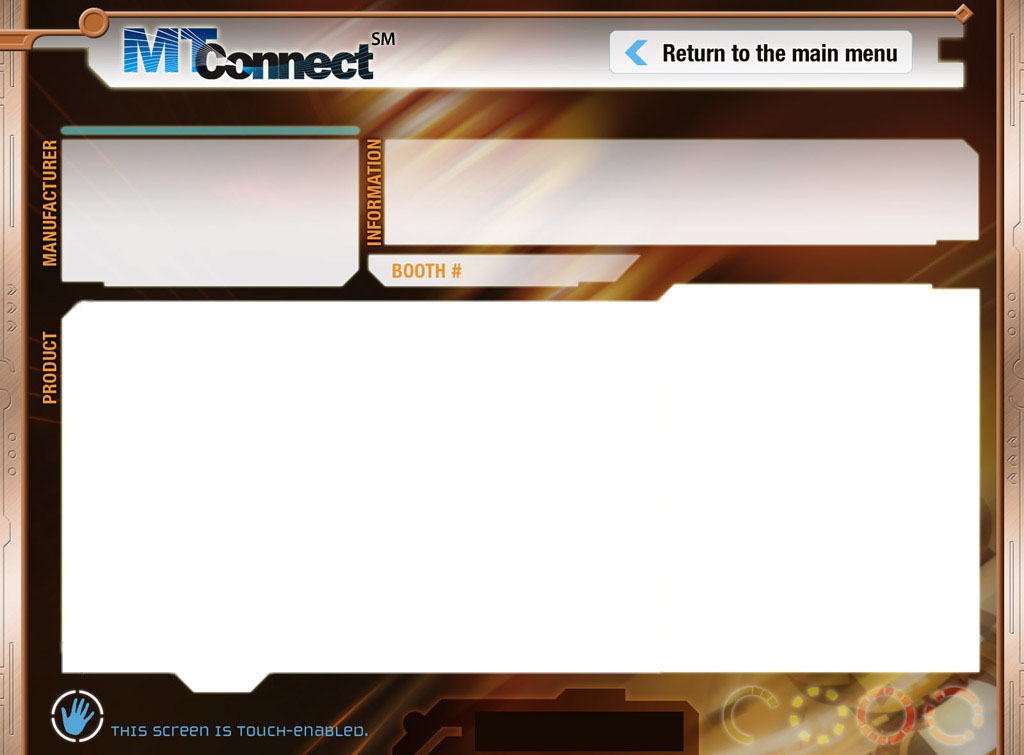
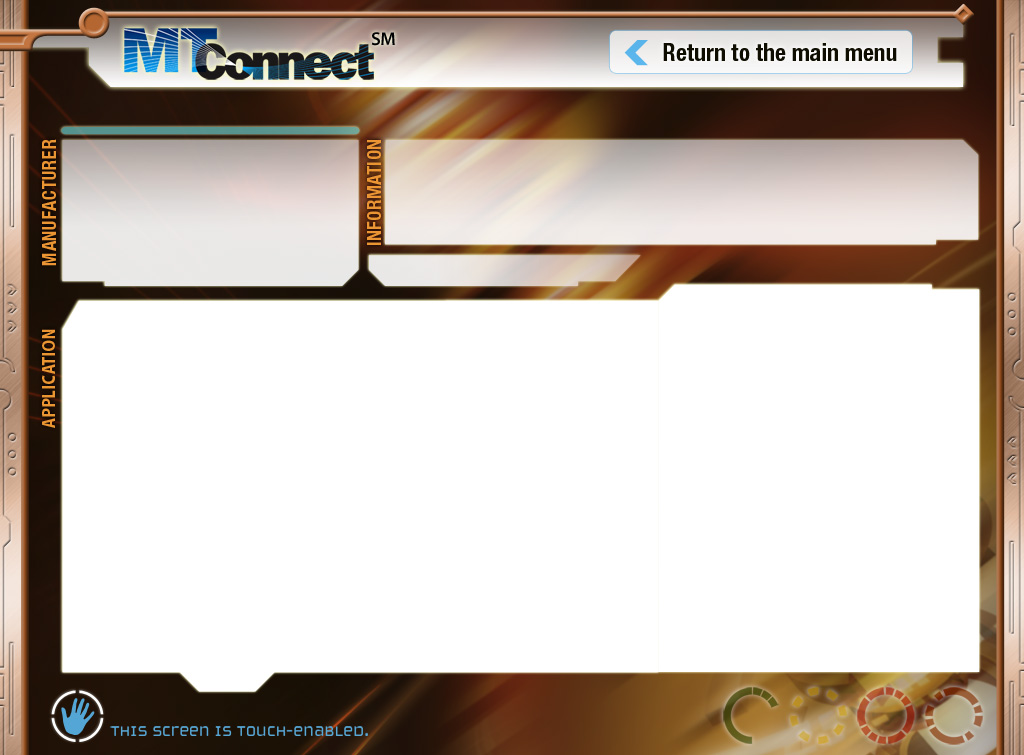
Transitioned from EMO to DEMO application

diff --git a/public/stylesheets/emo.css b/public/stylesheets/emo.css
@@ -139,7 +139,7 @@ a {
 #booth {
 	position: absolute;
 	top: 260px;
-	left: 470px;
+	left: 383px;
 	color: #006ca1;
 	font-size: 18px;
 }
@@ -155,10 +155,10 @@ a {
 
 #application iframe {
     position: absolute;
-    top: 320px;
-    left: 67px;
-    width: 890px;
-    height: 346px;
+    top: 310px;
+    left: 75px;
+    width: 895px;
+    height: 350px;
 }
 
 #hmi tr.title td {
@@ -195,8 +195,19 @@ form {
     background: white;
 }
 
-div#powered-by {
+a#powered-by {
 	position: absolute;
 	top: 700px;
 	left: 870px;
+    display: block;
+}
+
+a#mtconnect {
+    text-indent: -5000px;    
+    display: block;
+    position: absolute;
+    top: 22px;
+    left: 114px;
+    height: 58px;
+    width: 290px;
 }
